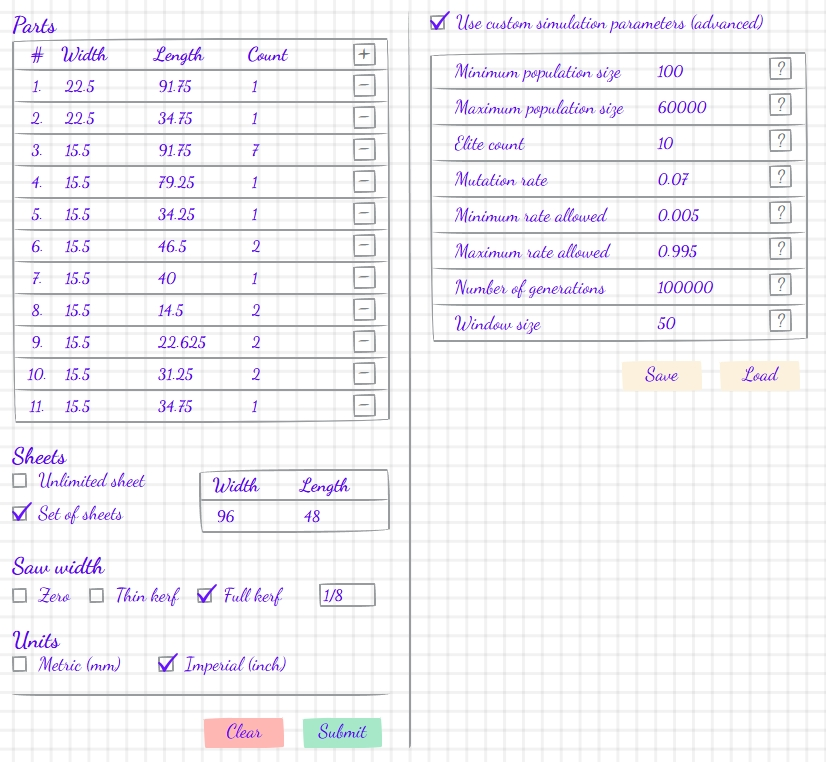
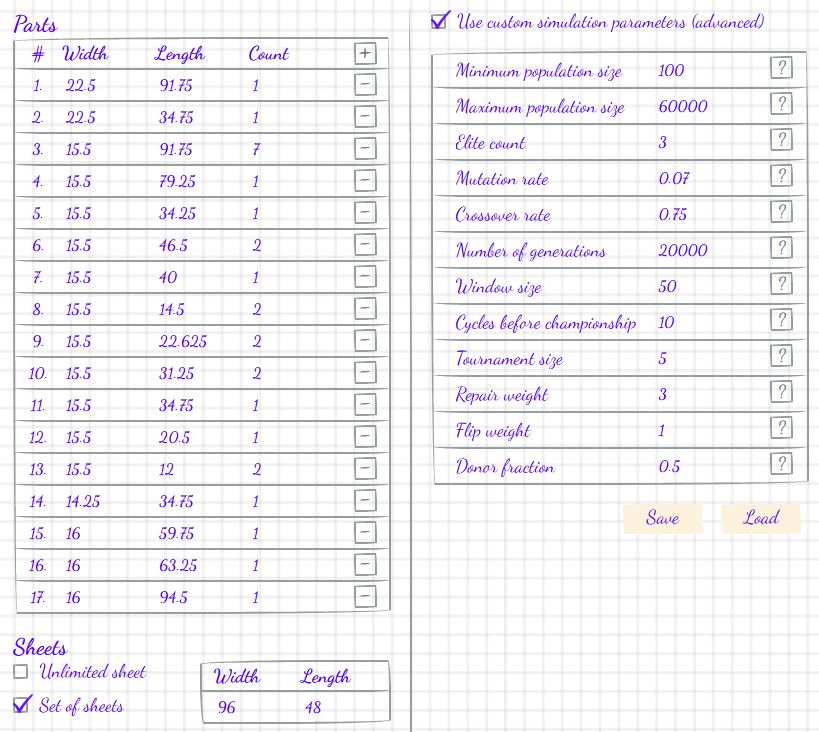
User documentation updated

Changed region(s): [[0.0, 0.0, 1.0, 0.9918], [0.7631, 0.6011, 0.9768, 0.7514]]

diff --git a/README.md b/README.md
@@ -18,12 +18,12 @@ As this problem is NP-hard, it is practical to find a near-optimal solution usin
 is discrete, and its solution space is not allowed to get gradient, this problem is solved by the multi-epoch simulation 
 known as Genetic Algorithms (GA).
 
-This tool is my attempt to bundle my experiments with adaptive GA and my lab software to something useful. I used 
+This tool is my attempt to bundle my experiments with GA and my lab software to something useful. I used 
 CSP-2D problem as close to my needs in a workshop while I cut plywood sheets.
 
 It can be used 
 1. Directly, to find the best sheet layouts
-2. To experiment with GA adaptation using the bundled Lab UI and using CSP-2D as a sample problem.
+2. To experiment with GA parameters using the bundled Lab UI and using CSP-2D as a sample problem.
 
 ---
 
@@ -74,13 +74,14 @@ Docker image is nowhere, needs to be built from the sources.
 
 Once you start the standalone executable file, it will try to open your browser automatically with the server URL. 
 You need to give permission to do this operation if the operating system asks you. Or you can run the browser manually 
-and connect to http://localhost:8080. The server part can be managed from the tray icon.
+and connect to http://127.0.0.1:8080. The server part can be managed from the tray icon.
 
 ![tray.jpg](docs/screenshots/tray.jpg)
 
 **Note:** If you run several standalone instances simultaneously each of them will run on a different port (the first 
 unused port it found starting from 8080). So it is better if the application opens the browser with the port it already
-knows.
+knows. The standalone server accepts connections from your computer only, other computers in the network cannot connect 
+to it.
 
 ---
 
@@ -91,7 +92,8 @@ Once the browser opens the application, the input form looks like this:
 ![initial.jpg](docs/screenshots/initial.jpg)
 
 - **Parts:** Parts to be cut out of the stock. You specify the width, length, and count of items. For numbers, you can 
-  use either a decimal point format (like `1.25`) or fractions (like `1 1/4`).
+  use either a decimal point format (like `1.25`) or fractions (like `1 1/4`). The total count of parts must be from 4 
+  to 100. Fewer parts have too few different layouts for the GA, and the GA is tested on problems up to 100 parts.
 - **Sheets:** The unconstrained problem means the sheet is unlimited. In this case the simulation finds the optimal 
   layout with minimal circumscribed rectangle. The constrained problem is 2-criteria optimization. It finds the layout 
   with a minimum number of sheets and minimum total area of circumscribed rectangles from every sheet. For a constrained
@@ -100,11 +102,42 @@ Once the browser opens the application, the input form looks like this:
 - **Saw width:** In real world the cutter has its own non-zero width. In the case of scissors, it actually can be zero.
   Saw blade can be full/thin kerf (standard) or something uneven/custom. You can select or enter the value directly.
 - **Units:** Both metric and imperial units are supported. They do not affect calculations and are only used in the output.
-- **Parameters:** These parameters do not belong to the problem itself. They are used to initially adjust the GA.
+- **Parameters:** These parameters do not belong to the problem itself. They are used to initially adjust the GA. 
+  The default values are chosen by measurements, so you need to check the "Use custom simulation parameters (advanced)" box only if you 
+  want to change them.
 
 ![initial.jpg](docs/screenshots/initial-params.jpg)
 
 You can click on the **[?]** icon to get the explanation about every parameter.
+- **Minimum/maximum population size:** Population is the number of solutions in every generation. It is calculated 
+  from the problem size (the number of parts squared), and these boundaries limit it. For small problems (4 to 10 parts) 
+  the minimum population size and the elite count are set automatically, and these fields are disabled.
+- **Elite count:** Number of the best solutions that are carried over to the next generation without any changes.
+- **Mutation rate:** The probability that a single element of a solution is changed when a new solution (offspring) 
+  is created. Mutation tries the smart changes first (repair and flip, see below) and then the random ones.
+- **Crossover rate:** Share of the new solutions made by crossover of two parents, greater than 0 and at most 1. The 
+  rest are copies of the selected parents, changed by mutation only.
+- **Number of generations:** Upper boundary of the generations. Simulation stops when it reaches this number. Usually 
+  it stops much earlier.
+- **Window size:** Number of generations without improvement of the best solution that ends a cycle (see below). It is 
+  also the number of the last generations the window metrics are averaged over. From 1 to 250.
+- **Cycles before championship:** How many cycles run before the championship (see below).
+- **Tournament size:** To select a parent, the GA draws this many solutions at random and takes the best of them. 
+  Larger values favour the best solutions more strongly. A whole number, 2 or more.
+- **Repair weight:** The cost of one successful repair in the mutation budget. Repair empties the worst filled sheet and 
+  packs its parts again. Larger values mean fewer repairs per generation.
+- **Flip weight:** The cost of one successful flip in the mutation budget. Flip changes the direction of the cut that 
+  wastes the most area. Larger values mean fewer flips per generation.
+- **Donor fraction:** The largest part of a parent that crossover copies into a child, as a share of the parts: greater 
+  than 0 and at most 1.
+
+**How the simulation runs.** The GA does not run as a single long search. It runs in cycles. A cycle ends when the best 
+solution has not improved for the number of generations set by the window size. Then the best solutions (the elite) of 
+this cycle are kept aside, and the simulation starts over from new random solutions. After the configured number of 
+cycles, the kept elites of all cycles compete together with random solutions in the final championship. The simulation 
+ends when the championship stops improving too, or when it reaches the number of generations.
+
+If you check the custom parameters box, the simulation starts in the Lab mode (see below).
 - **[Save] button:** You can save the current problem definition and GA parameters to the file.
 - **[Load] button:** Is used to fill the form from the previously created file. A file has a text format:
 
@@ -117,9 +150,30 @@ Parts
 22.5;34.75;1
 15.5;91.75;7
 15.5;79.25;1
+
+SawWidth
+1/8
+
+Units
+in
+
+Parameters
+populationSize.min: 100
+populationSize.max: 60000
+eliteCount: 3
+mutationRate: 0.07
+crossoverRate: 0.75
+maxEpochsCount: 20000
+windowSize: 50
+cycleCount: 10
+tournamentSize: 5
+repairWeight: 3
+flipWeight: 1
+donorFraction: 0.5
 ```
 Where sheets constraint is semicolon-separated `width;length`, parts is semicolon-separated `width;length;count`. 
-Parameters are also supported.
+Saw width, units and parameters are optional. Without the `Sheets` section the sheet is unlimited. With the `Parameters` 
+section the custom parameters box is checked.
 
 - **[Clear] button:** Flushes the form.
 - **[Submit] button:** Starts simulation. You can start and monitor several simulations simultaneously from different 
@@ -153,31 +207,33 @@ The **Control panel** and **Best solution panel** are the same. The **Indicator 
 - **Generation #:** How many epochs (generation) passed so far.
 - **Generations:** Upper boundary of the generations. Simulation stops when the upper boundary reaches. Usually it stops 
   much earlier.
-- **Min/max rates:** The boundaries of the crossover and mutation rates. The adaptive GA adjusts these rates in 
-  real-time based on the metrics at the every epoch. Boundaries prevent the algorithm from collapsing to 100% 
-  exploration or 100% exploitation.
+- **Restarts:** How many cycles ended so far, each time the simulation started over from new random solutions.
+
+The **Run time parameters panel** displays the parameters the simulation currently uses:
 - **Mutation rate:** Mutation rate is a parameter that controls the frequency of mutation in the population. 
 - **Elite count:** Number of the protected (elite) species in every generation. 
-- **Window size:** As runtime metrics are highly volatile, we average them over a window of the last N generations. 
-  Adaptive GA makes decisions based on the averaged values to do not overreact on random spikes.
+- **Window size:** Number of generations without improvement that ends a cycle. As runtime metrics are highly volatile, 
+  the window charts also average them over the last N generations.
 - **Population:** Number of species in every generation. This is a calculated value based on the problem size. But you 
   can set up boundaries for this value in the parameters.
 
 Metrics that we display in the lab:
 
 - **Sheets and area over time:** Two fitness metrics, not combined to a single value, displayed separately here.
-- **Single generation and window metrics:** Two metrics charts, instantaneous and averaged over the window. They show:
-    - **Best solution fitness:** $f_{best}$ Combined fitness value, same as we display in the Monitoring mode chart.
+- **Generation state and Window state:** Two metrics charts, instantaneous and averaged over the window. They show:
+    - **Best solution fitness:** $f_{best}$ Combined fitness value, same as we display in the Monitoring mode chart. 
+      Only the Generation state chart shows it.
     - **Average fitness over the population:** $\overline{f}$ Combined fitness value, averaged over a whole population.
     - **Standard deviation of $\overline{f}$:** Standard deviation of the fitness value in a whole population.
     - **Average fitness over the elite:** $\overline{f_{elite}}$ Combined fitness value, averaged over the elite.
-    - **Standard deviation of $\overline{f_{elite}}$:** Standard deviation of the fitness value in the elite. The 
-      algorithm stops when this value averages to zero over the window. This situation means that simulation converged 
-      to a minimum and unable to leave that dip. Further processing does not make sense in this case. This minimum can 
-      be either local or a global minimum.
-- **Saturation rate:** GA considers saturated if a crossover operation is unable to produce unique species as offspring.
-  In this case GA raises the exploration by introducing a new random migrant instead of the crossover's offspring. This
-  chart shows the percent rate of migrants over the whole population. Usually it is less than 1%.
+    - **Standard deviation of $\overline{f_{elite}}$:** Standard deviation of the fitness value in the elite. When 
+      this value drops to zero, all elite solutions have the same fitness. This situation means that simulation 
+      converged to a minimum, which can be either local or a global minimum. If the best solution stops improving, the 
+      cycle ends, and the simulation starts over.
+- **Saturation rate:** GA considers saturated if crossover or mutation is unable to produce a unique species as 
+  offspring. In this case GA raises the exploration by introducing a new random migrant instead of that offspring. This
+  chart shows the share of migrants in the population per generation, averaged over the window. The share is not in 
+  percent: 0.01 means 1%.
 - **Solutions spread** is the same as in the Monitoring mode chart.
 
 Lab control panel shows a toggle "how many points to display in the chart" (pure display function, it won't affect any 
@@ -191,8 +247,13 @@ Then, the **[Edit]** button enables. Clicking that, the parameter dialog appears
 
 ![lab-edit-dialog.jpg](docs/screenshots/lab-edit-dialog.jpg)
 
-Same control parameters that are in the input form. You can adjust them and look how it changes the metrics and the 
-overall convergence of the GA.
+Same control parameters that are in the input form, except the population size and the window size. They are set 
+only once, at the start. You can adjust the parameters and look how it changes the metrics and the overall convergence 
+of the GA. Then press **[Submit]** and resume the simulation with the play button.
+
+The dialog checks the values before submitting. The elite count must be less than the population, and the number of 
+generations must not be less than the window size. If something is wrong, the dialog marks the wrong fields and lists 
+the reasons.
 
 When simulation ends by itself, or you press **[Stop]** on the control panel, the results display. Usually it is the 
 single best solution. We consider two solutions with the same fitness criteria values as the same solution. So we choose the 
